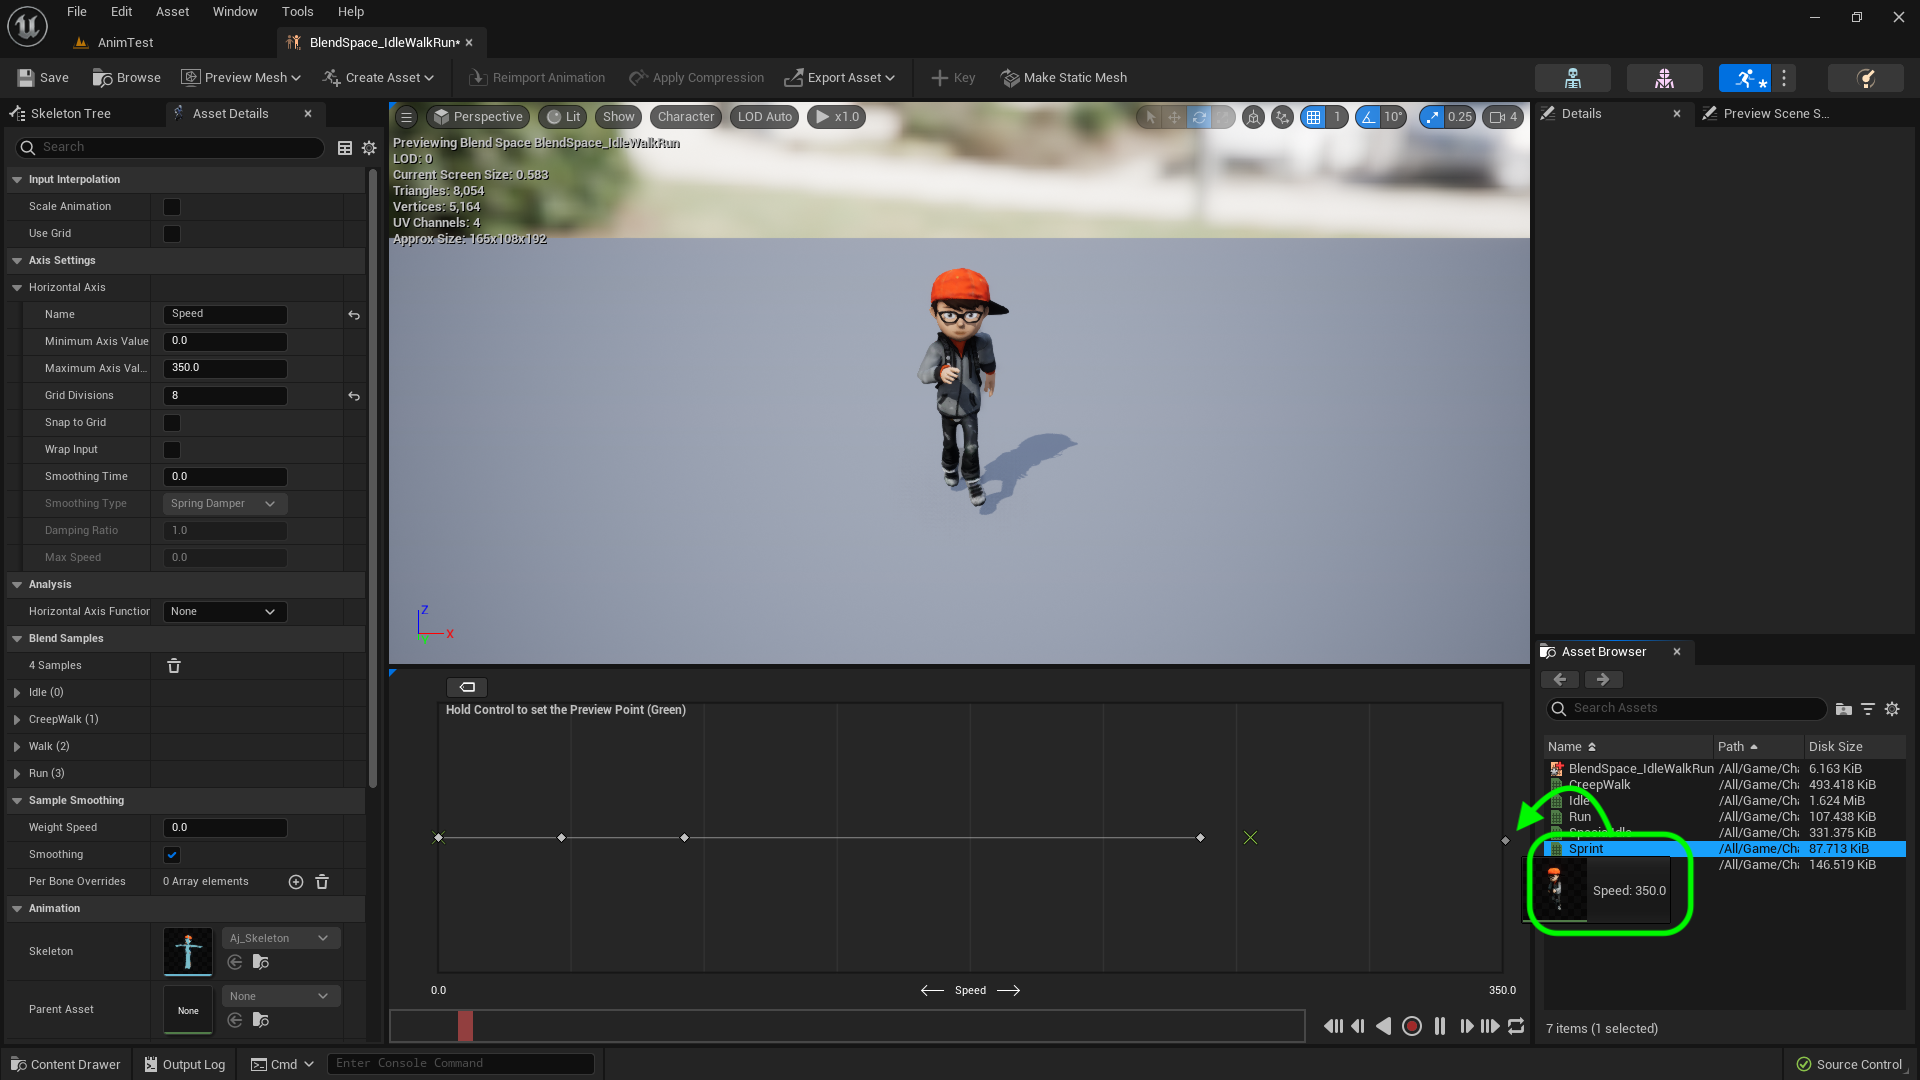
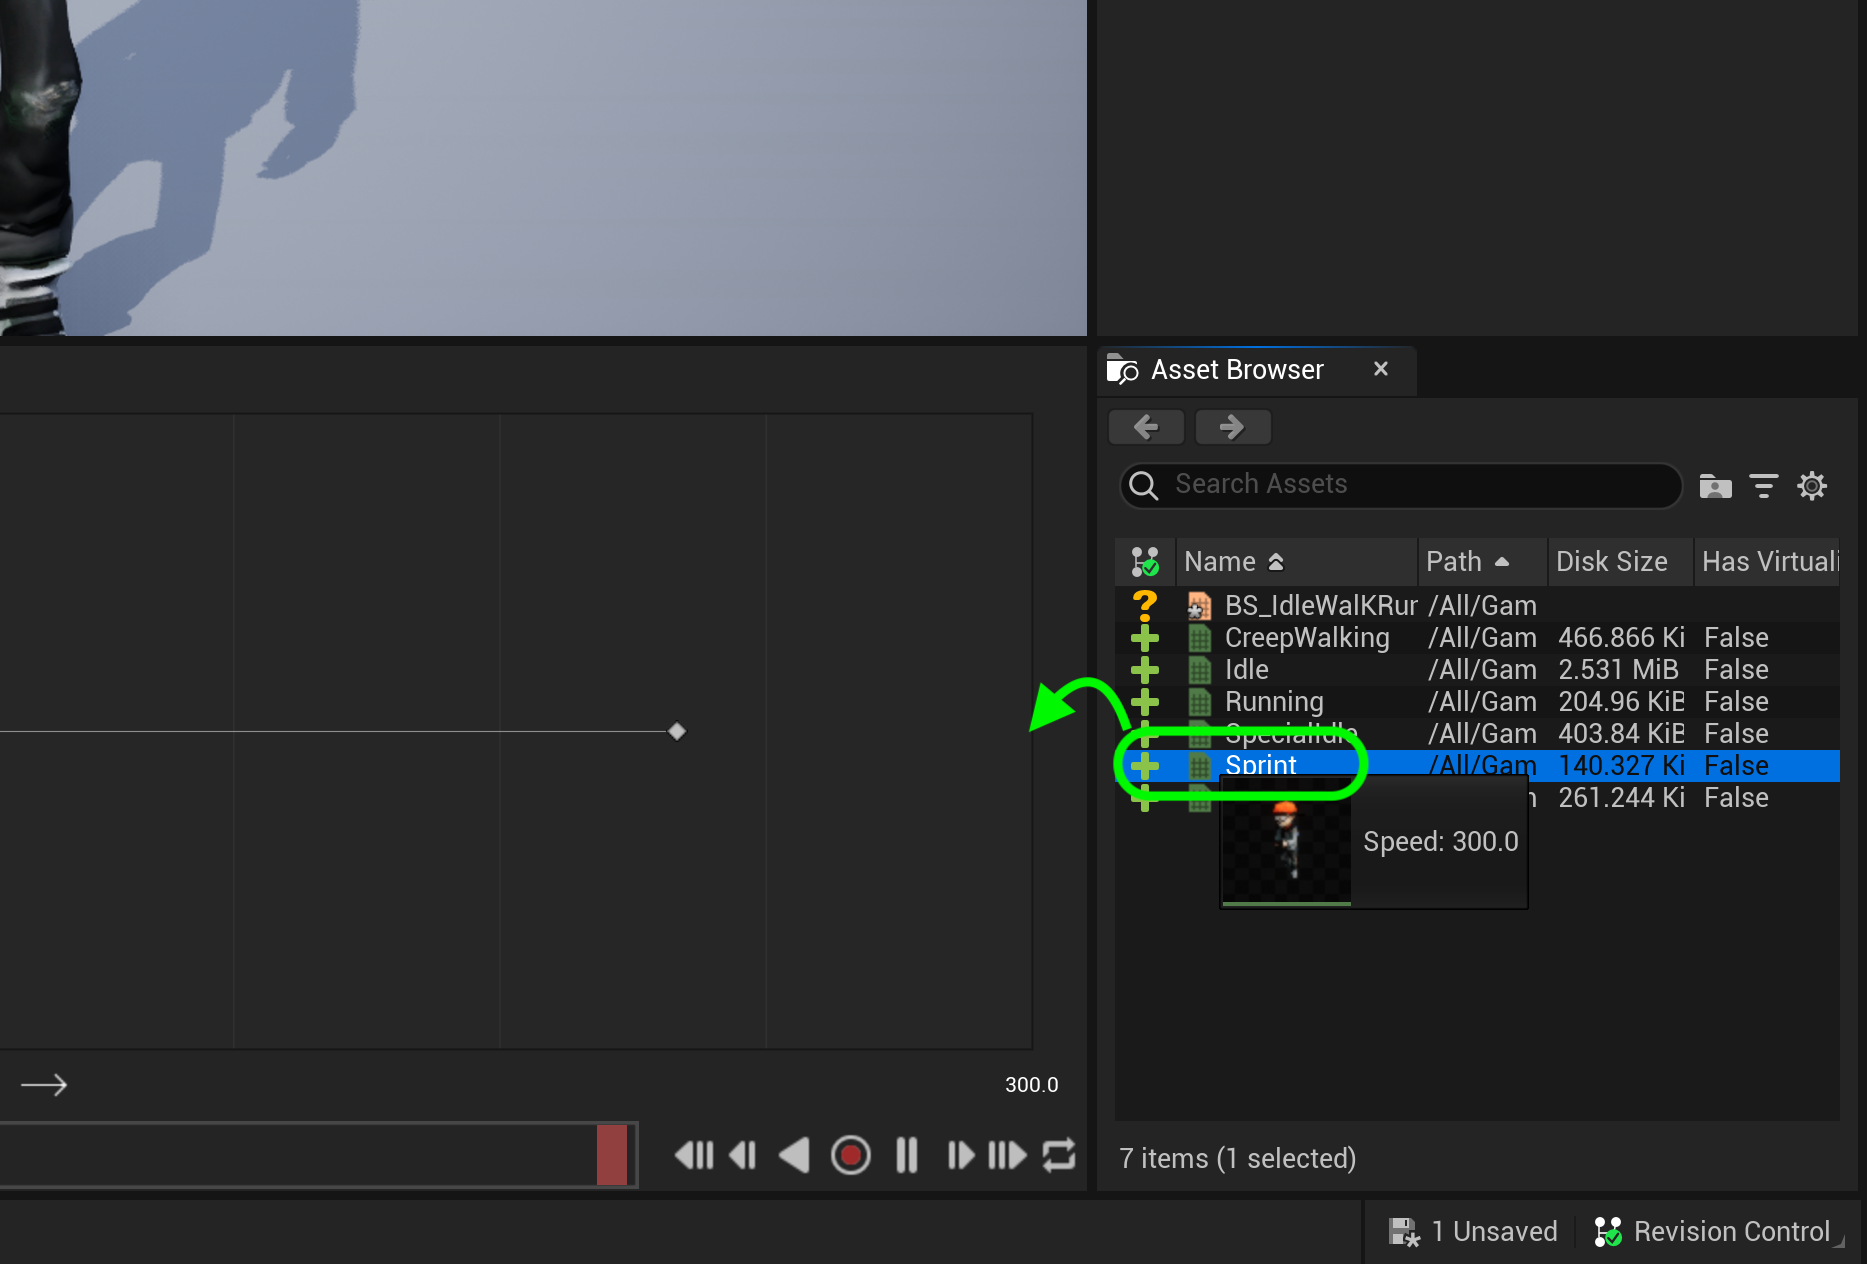
Update to Unreal 5.2

diff --git a/animation-blend/README.md b/animation-blend/README.md
@@ -68,7 +68,7 @@ Drag and drop the **CreepWalking** animation and put it close to `40.0` on the *
 
 ##### `Step 8.`\|`ITA`| :small_orange_diamond: :small_blue_diamond: :small_blue_diamond: :small_blue_diamond:
 
-*Drag and drop* **Run** around `250.0` on **blend space**.
+*Drag and drop* **Running** around `250.0` on **blend space**.
 
 ![drag run animation to 250 on blend space](images/DragRunTo250.png)
 
@@ -76,7 +76,7 @@ Drag and drop the **CreepWalking** animation and put it close to `40.0` on the *
 
 ##### `Step 9.`\|`ITA`| :small_orange_diamond: :small_blue_diamond: :small_blue_diamond: :small_blue_diamond: :small_blue_diamond:
 
-Finally *place* the **Sprint** animation at the end of the *timeline* at `350`.
+Finally *place* the **Sprint** animation at the end of the *timeline* at `300`.
 
 ![add fast run to very end](images/FastRunToEnd.png)
 
